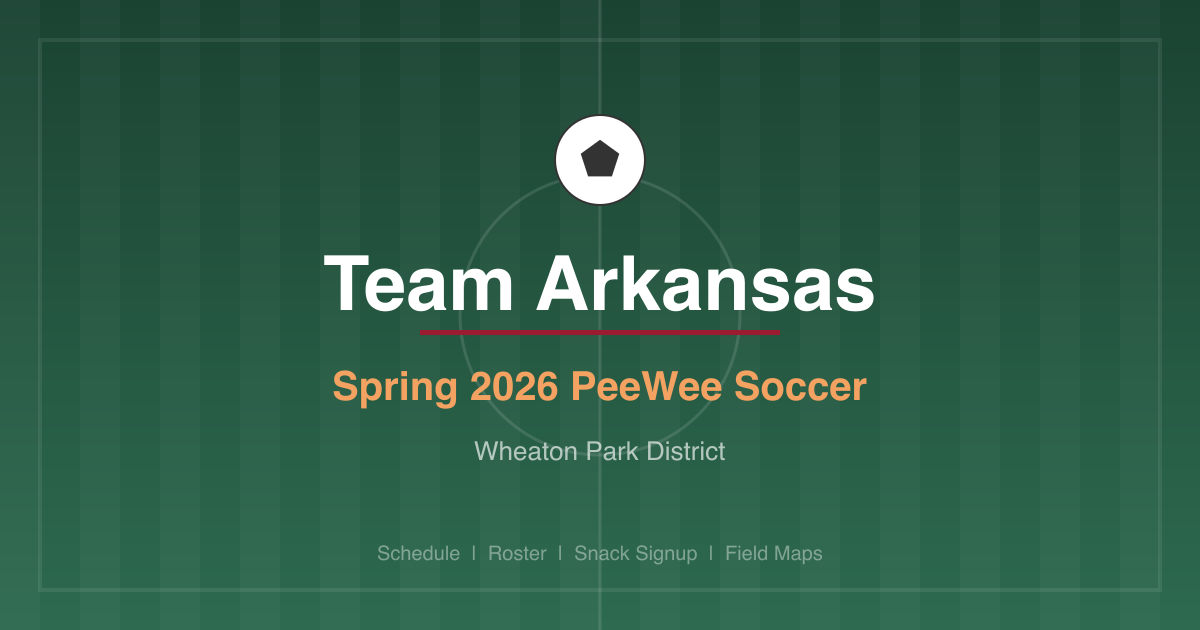
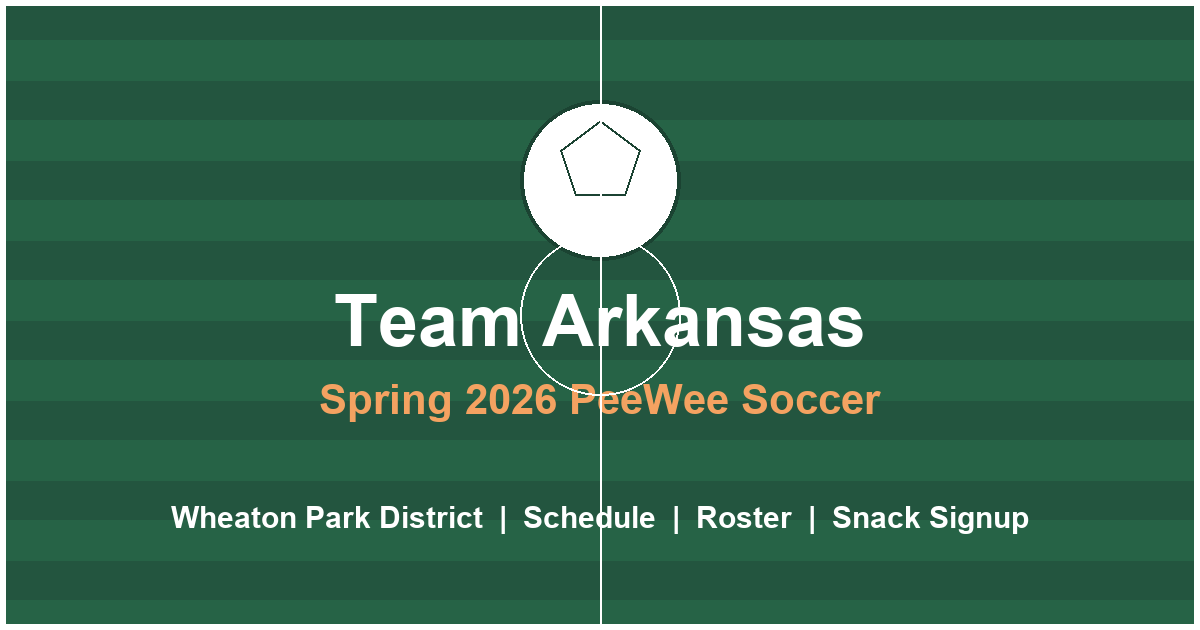
Add Open Graph meta tags and preview image for link sharing
Shows a rich preview card with title, description, and field-themed
image when the URL is shared via iMessage or social media.

Changed region(s): [[0.0, 0.0, 1.0, 1.0], [0.2467, 0.0603, 0.8017, 0.754]]

diff --git a/index.html b/index.html
@@ -4,6 +4,16 @@
   <meta charset="UTF-8">
   <meta name="viewport" content="width=device-width, initial-scale=1.0">
   <title>Team Arkansas - Spring 2026 PeeWee Soccer</title>
+  <!-- Open Graph / Link Preview -->
+  <meta property="og:type" content="website">
+  <meta property="og:url" content="https://team-arkansas.vercel.app">
+  <meta property="og:title" content="⚽ Team Arkansas – Spring 2026 PeeWee Soccer">
+  <meta property="og:description" content="Game schedule, roster, snack signup & more for Wheaton Park District PeeWee Soccer">
+  <meta property="og:image" content="https://team-arkansas.vercel.app/og-image.png">
+  <meta name="twitter:card" content="summary_large_image">
+  <meta name="twitter:title" content="⚽ Team Arkansas – Spring 2026 PeeWee Soccer">
+  <meta name="twitter:description" content="Game schedule, roster, snack signup & more for Wheaton Park District PeeWee Soccer">
+  <meta name="twitter:image" content="https://team-arkansas.vercel.app/og-image.png">
 
   <!-- Open Graph / Link Preview -->
   <meta property="og:type" content="website">
